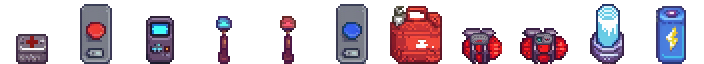
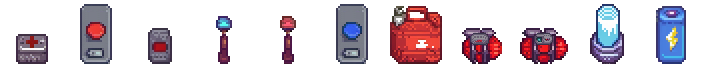
fix remote charge, show bombs, persist part defs on transport,

Changed region(s): [[0.1875, 0.25, 0.25, 1.0]]

diff --git a/server/Game.js b/server/Game.js
@@ -14,6 +14,7 @@ import {
 import worlds from '../worlds';
 import gamesDatabase from './database/games';
 import { url, socketBroadcast } from './server';
+import { explode } from './effects';
 
 const WORLDS = {
 	...Object.fromEntries(worlds.map(world => [world.name, world])),
@@ -248,7 +249,7 @@ export default class Game {
 		const vehicleConfig = vehicles[player.configuration.vehicle];
 		const drillConfig = drills[player.configuration.drill];
 		const engineConfig = engines[player.configuration.engine];
-		const partConfig = this.world.parts[player.configuration.part];
+		const partConfig = this.world.parts[player.configuration.part] || {};
 
 		let maxHealth = 30;
 		let maxFuel = 30;
@@ -418,6 +419,7 @@ export default class Game {
 
 		this.world = this.generateWorld({
 			...WORLDS[randFromArray(Object.keys(WORLDS))],
+			parts: this.world.parts,
 			spaceco: { hull: this.world.spaceco.hull },
 		});
 
@@ -446,32 +448,25 @@ export default class Game {
 		} else if (item === 'timed_charge') {
 			this.players.update(playerId, _ => ({ ..._, ...updates }));
 			const bombPosition = { ...player.position };
-			const radius = 3;
 
-			// TODO update player & update world to show bomb
-			// this.broadcast('useItem', { playerId, updates, item, position: bombPosition });
+			this.world.grid[bombPosition.x][bombPosition.y].items.push({ name: item });
 
-			setTimeout(() => {
-				const playersToFall = [];
+			this.broadcast('useItem', { playerId, updates, item, bombPosition });
 
-				getSurroundingRadius(bombPosition, radius).forEach(({ x, y }) => {
-					if (this.world.grid[x]?.[y]) this.world.grid[x][y] = { ground: {}, items: [], hazards: [] };
+			setTimeout(() => explode({ game: this, position: bombPosition, radius: 2 }), 3000);
+		} else if (item === 'remote_charge') {
+			const bombPosition = { ...player.position };
 
-					if (this.world.spaceco.position.x === x && this.world.spaceco.position.y === y) {
-						this.world.spaceco.health = Math.max(0, this.world.spaceco.health - 1);
-					}
+			this.world.grid[bombPosition.x][bombPosition.y].items.push({ name: item });
 
-					this.players.forEach(player => {
-						if (player.position.x === x && player.position.y === y) playersToFall.push(player.id);
-					});
-				});
+			updates.items = { ...updates.items, [`detonator_${bombPosition.x}_${bombPosition.y}`]: 1 };
+			this.players.update(playerId, _ => ({ ..._, ...updates }));
 
-				this.broadcast('explodeBomb', { playerId, item, radius, position: bombPosition });
+			this.broadcast('useItem', { playerId, updates, item, bombPosition });
+		} else if (item.startsWith('detonator')) {
+			const [, x, y] = item.split('_');
 
-				this.spacecoFall();
-
-				playersToFall.forEach(playerId => this.playerFall(playerId));
-			}, 3000);
+			explode({ game: this, position: { x: parseInt(x, 10), y: parseInt(y, 10) }, radius: 4 });
 		} else {
 			this.players.update(playerId, _ => ({ ..._, ...updates }));
 			this.broadcast('useItem', { playerId, updates, item });
@@ -617,13 +612,15 @@ export default class Game {
 		if (!world.spaceco.position) world.spaceco.position = { x: randInt(3, world.width - 3), y: world.airGap };
 
 		if (!world.spaceco.parts) {
-			world.spaceco.parts = {};
+			world.parts = world.parts || {};
+			world.spaceco.parts = world.spaceco.parts || {};
 
 			const partCount = randInt(3, 9);
 
 			for (let x = 0; x < partCount; ++x) {
 				const part = this.generatePart();
 
+				world.parts[part.name] = part;
 				world.spaceco.parts[part.name] = part;
 			}
 		}

diff --git a/client/Play/Game.js b/client/Play/Game.js
@@ -1,18 +1,12 @@
 import { styled, throttle, debounce, convertRange, randInt } from 'vanilla-bean-components';
 import Phaser from 'phaser';
 
-import {
-	getSurroundingRadius,
-	getImmediateSurrounds,
-	gridToPxPosition,
-	hasFooting,
-	pxToGridPosition,
-} from '../../utils';
+import { getImmediateSurrounds, gridToPxPosition, hasFooting, pxToGridPosition } from '../../utils';
 import { move as movePlayer } from '../api';
 import socket, { onMessage } from '../socket';
 import gameContext from './gameContext';
 import GameScene from './GameScene';
-import { Drill, Lava, Gas } from './GameObjects';
+import { Drill, Lava, Gas, Item } from './GameObjects';
 import ConsoleDialog from './ConsoleDialog';
 import { destroyGround, explode } from './effects';
 
@@ -273,7 +267,7 @@ export default class Game extends (styled.Component`
 					gameContext.spaceco.dialog.options.view = 'success';
 
 					gameContext.serverState.world.spaceco[data.type] = data.spacecoUpdates[data.type];
-				}  else if (data.update === 'spacecoBuyTransport') {
+				} else if (data.update === 'spacecoBuyTransport') {
 					console.log('spacecoBuyTransport', data);
 					gameContext.players.update(data.playerId, _ => ({ ..._, ...data.updates }));
 
@@ -303,26 +297,12 @@ export default class Game extends (styled.Component`
 						const player = gameContext.players.get(data.playerId);
 
 						player.sprite.move(player.position, 0, player.orientation);
-					} else if (data.item === 'timed_charge') {
-						const player = gameContext.players.get(data.playerId);
+					} else if (data.item === 'timed_charge' || data.item === 'remote_charge') {
+						const sprite = new Item(gameContext.scene, data.bombPosition.x, data.bombPosition.y, data.item);
 
-						const delta = {
-							x: data.position.x - player.position.x,
-							y: data.position.y - player.position.y,
-						};
-						gameContext.scene.cameras.main.shake(
-							1000,
-							convertRange(Math.abs(delta.x) + Math.abs(delta.y), [0, 20], [0.01, 0]),
-						);
-						gameContext.scene.cameras.main.flash(600);
-						gameContext.scene.sound.play('explode', { volume: gameContext.volume.effects });
-
-						getSurroundingRadius(data.position, 3).forEach(({ x, y }) => {
-							const gridConfig = gameContext.serverState.world.grid[x][y];
-							if (gridConfig.ground.sprite?.scene) gridConfig.ground.sprite.dig();
-							[...gridConfig.items, ...gridConfig.hazards].forEach(one => one.sprite.destroy());
-
-							gameContext.serverState.world.grid[x][y] = { ground: {}, items: [], hazards: [] };
+						gameContext.serverState.world.grid[data.bombPosition.x][data.bombPosition.y].items.push({
+							name: data.item,
+							sprite,
 						});
 					} else {
 						console.warn(`unknown item ${data.item}`);

diff --git a/client/Play/GameObjects/Item.js b/client/Play/GameObjects/Item.js
@@ -9,23 +9,25 @@ export class Item extends Phaser.GameObjects.Image {
 	 * @param {object} scene - The scene
 	 * @param {number} x - Grid x
 	 * @param {number} y - Grid y
-	 * @param { "oil" | "remote_charge" | "repair_nanites" | "responder" | "responder_teleporter" | "teleporter" | "timed_charge" } name - The item name
+	 * @param { "oil" | "battery" | "super_oxygen_liquid_nitrogen" | "detonator" | "remote_charge" | "timed_charge" | "repair_nanites" | "teleport_station" | "advanced_teleporter" | "spaceco_teleporter" } name - The item name
 	 */
 	constructor(scene, x, y, name) {
 		const itemIndex = {
 			repair_nanites: 0,
-			teleporter: 1,
-			responder: 3,
-			responder_teleporter: 5,
+			spaceco_teleporter: 1,
+			detonator: 2,
+			teleport_station: 3,
+			advanced_teleporter: 5,
 			oil: 6,
 			timed_charge: 7,
 			remote_charge: 8,
+			super_oxygen_liquid_nitrogen: 9,
+			battery: 10,
 		};
+
 		super(scene, gridToPxPosition(x), gridToPxPosition(y), 'items', itemIndex[name]);
 
 		this.name = name;
-
-		this.setOrigin(0.5, -0.01);
 
 		scene.add.existing(this);
 	}

diff --git a/utils/grid.js b/utils/grid.js
@@ -54,14 +54,15 @@ export const getImmediateSurrounds = (
 };
 
 export const getSurroundingRadius = (position, radius, grid = []) => {
-	const x_from = position.x - radius,
-		x_to = position.x + radius;
-	const y_from = position.y - radius,
-		y_to = position.y + radius;
 	const surroundingRadius = [];
+	const roundedRadius = Math.round(radius);
 
-	for (let x = x_from, y; x <= x_to; ++x) {
-		for (y = y_from; y <= y_to; ++y) surroundingRadius.push({ x: x, y: y, ...(grid?.[x]?.[y] || {}) });
+	for (let x = position.x - roundedRadius; x <= position.x + roundedRadius; x++) {
+		for (let y = position.y - roundedRadius; y <= position.y + roundedRadius; y++) {
+			if (Math.pow(x - position.x, 2) + Math.pow(y - position.y, 2) <= Math.pow(radius, 2)) {
+				surroundingRadius.push({ x, y, ...(grid?.[x]?.[y] || {}) });
+			}
+		}
 	}
 
 	return surroundingRadius;

diff --git a/server/effects.js b/server/effects.js
@@ -1,0 +1,24 @@
+import { getSurroundingRadius } from '../utils';
+
+export const explode = ({ game, position, radius }) => {
+	console.log('explode', { position, radius });
+	const playersToFall = [];
+
+	[position, ...getSurroundingRadius(position, radius)].forEach(({ x, y }) => {
+		if (game.world.grid[x]?.[y]) game.world.grid[x][y] = { ground: {}, items: [], hazards: [] };
+
+		if (game.world.spaceco.position.x === x && game.world.spaceco.position.y === y) {
+			game.world.spaceco.health = Math.max(0, game.world.spaceco.health - 1);
+		}
+
+		game.players.forEach(player => {
+			if (player.position.x === x && player.position.y === y) playersToFall.push(player.id);
+		});
+	});
+
+	game.broadcast('explodeBomb', { radius, position });
+
+	game.spacecoFall();
+
+	playersToFall.forEach(playerId => game.playerFall(playerId));
+};

diff --git a/client/Play/effects.js b/client/Play/effects.js
@@ -21,7 +21,13 @@ export const explode = ({ position, radius }) => {
 	gameContext.scene.cameras.main.flash(600);
 	gameContext.scene.sound.play('explode', { volume: gameContext.volume.effects });
 
-	getSurroundingRadius(position, radius).forEach(({ x, y }) => {
+	[position, ...getSurroundingRadius(position, radius)].forEach(({ x, y }) => {
 		destroyGround({ x, y, silent: true });
+
+		const gridConfig = gameContext.serverState.world.grid[x][y];
+
+		gridConfig.items.forEach(item => {
+			if (item.sprite?.scene) item.sprite.destroy();
+		});
 	});
 };

diff --git a/client/Play/ConsoleDialog.js b/client/Play/ConsoleDialog.js
@@ -173,7 +173,7 @@ export default class ConsoleDialog extends Dialog {
 					new Label(
 						{ label: capitalize(key.replaceAll('_', ' '), true), style: { width: 'auto' } },
 						`x${count.toString()}`,
-						new ItemImage(key),
+						new ItemImage(key.startsWith('detonator') ? 'detonator' : key),
 						new Button({
 							content: 'Use',
 							onPointerPress: () => {
